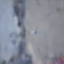
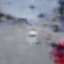
update

diff --git a/main_var.py b/main_var.py
@@ -296,7 +296,7 @@ def reconstruct(args):
 	x_ = torch.zeros(x.size())
 	diff = torch.sum((x - x_)**2)
 	epoch = 0
-	while epoch <= args.epochs and diff >= eps:
+	while epoch <= args.epochs * 5 and diff >= eps:
 		epoch += 1
 		x_.copy_(x)
 		y = model_var(x)	
@@ -305,13 +305,13 @@ def reconstruct(args):
 		diff = torch.sum((x - x_)**2)
 	
 	img = x.squeeze(0).detach().cpu().numpy()
-	img = (np.clip(img, 0., 1.) * 255).astype(np.uint8).transpose(2, 1, 0)
+	img = (np.clip(img, 0., 1.) * 255).astype(np.uint8).transpose(1, 2, 0)
 	matplotlib.image.imsave('var.png', img)
 
 	x_recon, _, _ = model_vae(x)	
 	img_recon = x_recon.squeeze(0).detach().cpu().numpy()
 	print(img_recon.shape)
-	img_recon = (np.clip(img_recon, 0., 1.) * 255).astype(np.uint8).transpose(2, 1, 0)
+	img_recon = (np.clip(img_recon, 0., 1.) * 255).astype(np.uint8).transpose(1, 2, 0)
 	matplotlib.image.imsave('var_recon.png', img_recon)
 	
 	# Prepare dataset
